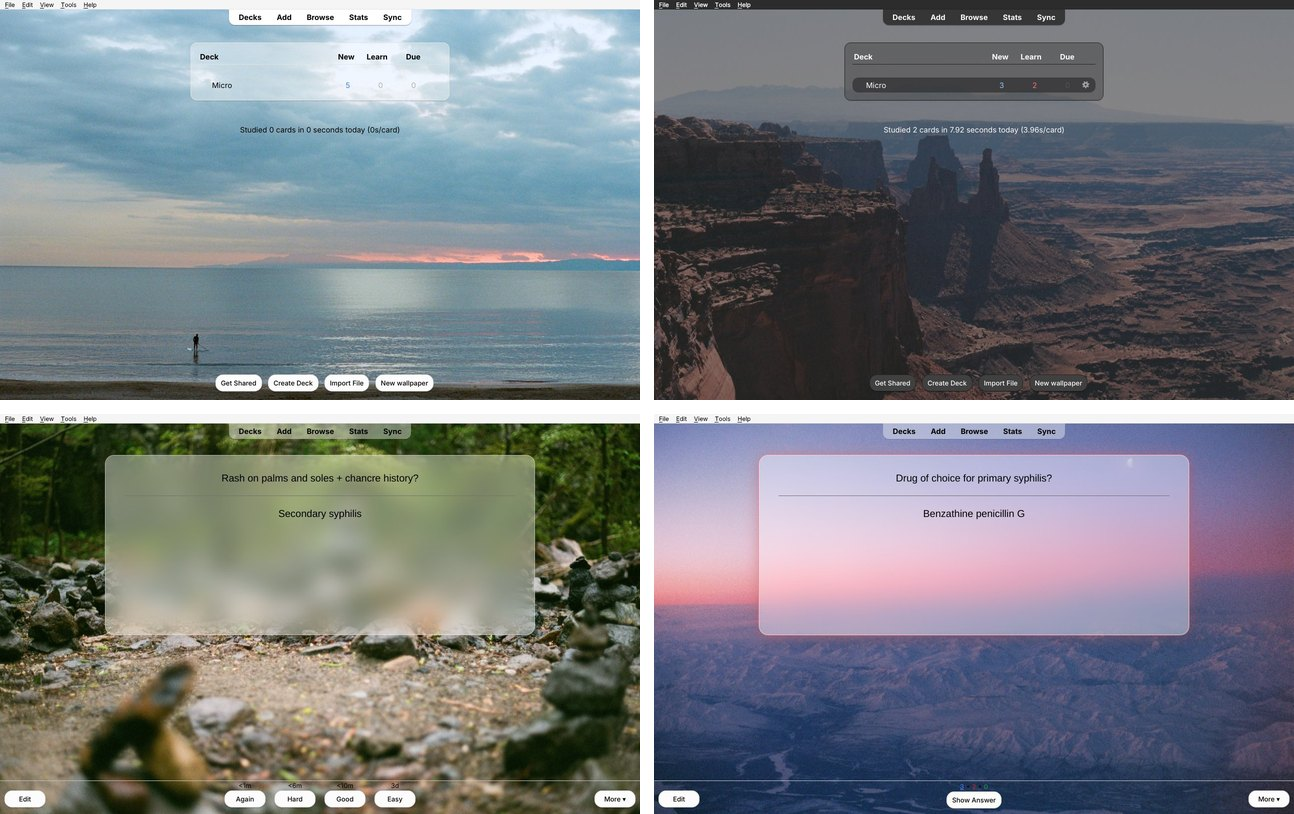
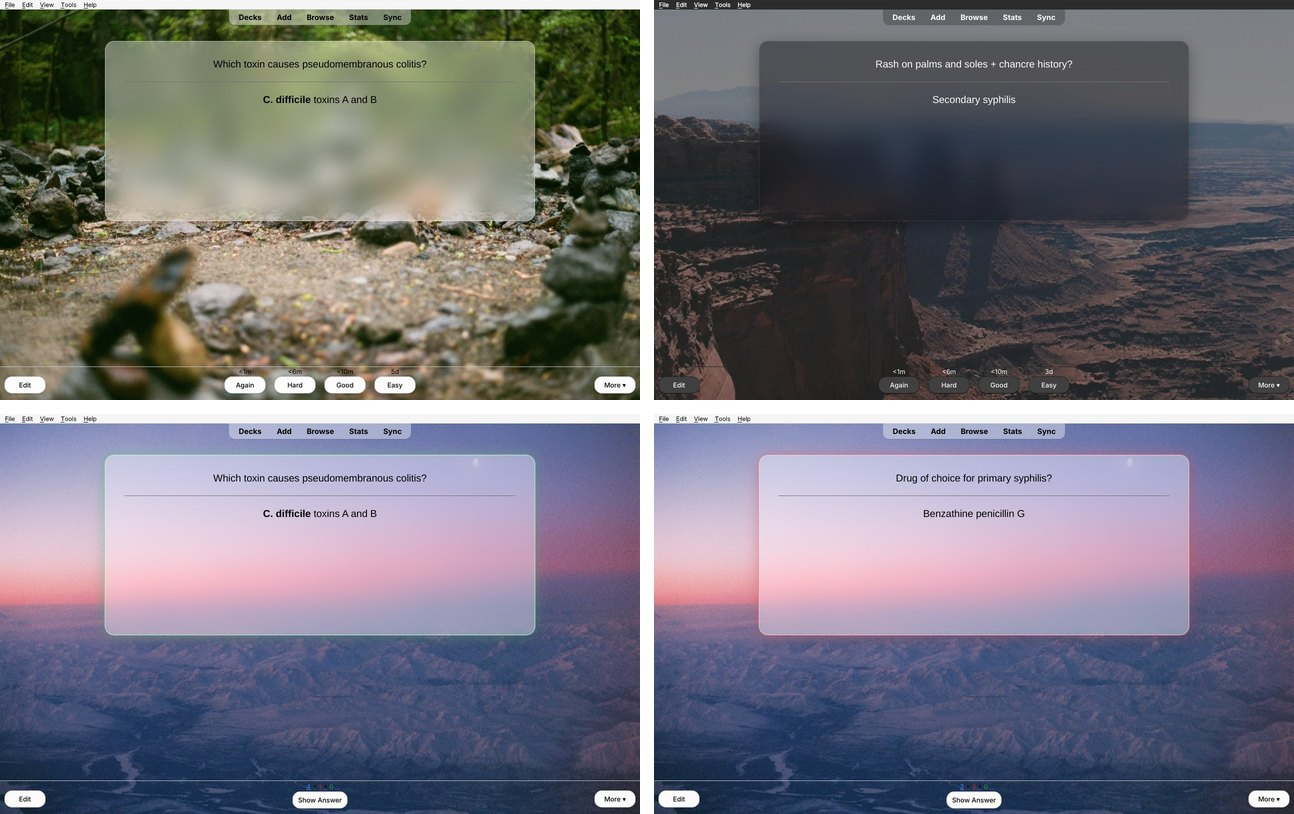
Screenshots: cairn for light mode, canyon for dark, twilight for the glows
Claude-Session: https://claude.ai/code/session_012cZ2edc3Z83QWC5adsUwSL

diff --git a/README.md b/README.md
@@ -2,7 +2,7 @@
 
 A calm, good-looking Anki. Your cards sit on a pane of frosted glass over a wallpaper that runs behind every screen, and each answer gets a soft glow and a quiet piano note.
 
-![Review screen with a frosted-glass card](docs/screenshots/review_answer.jpg)
+![Frosted-glass card glowing after a Good answer](docs/screenshots/glow_good.jpg)
 
 ## Features
 
@@ -18,9 +18,9 @@ A calm, good-looking Anki. Your cards sit on a pane of frosted glass over a wall
 - **Custom deck gear icons** (optional).
 - One **Settings** window. Every change shows up live without reloading.
 
-| Deck list | Dark mode |
+| Light mode | Dark mode |
 |---|---|
-| ![Deck list](docs/screenshots/decks_light.jpg) | ![Dark mode review](docs/screenshots/review_dark.jpg) |
+| ![Light mode review](docs/screenshots/review_answer.jpg) | ![Dark mode review](docs/screenshots/review_dark.jpg) |
 
 | Glow on Good | Glow on Again |
 |---|---|

diff --git a/docs/ankiweb_description.md b/docs/ankiweb_description.md
@@ -12,7 +12,7 @@
 - **New wallpaper** button on the deck list, and Ctrl+Shift+W anywhere.
 - One **Settings** window (Tools → Frosted Glass → Settings). Changes show up live.
 
-![Deck list in light and dark mode, a review over the forest cairns, and the glow on Again](https://raw.githubusercontent.com/aidansun525/liquid-glass-anki-theme/main/docs/screenshots/ankiweb_grid.jpg)
+![Light mode, dark mode, and the glow on Good and Again](https://raw.githubusercontent.com/aidansun525/liquid-glass-anki-theme/main/docs/screenshots/ankiweb_grid.jpg)
 
 ![Settings: wallpaper, daily downloads, glass and sound](https://raw.githubusercontent.com/aidansun525/liquid-glass-anki-theme/main/docs/screenshots/ankiweb_settings.jpg)
 
